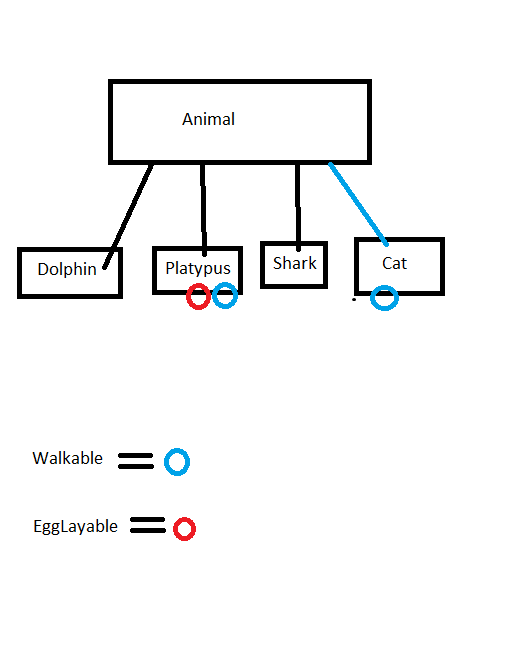
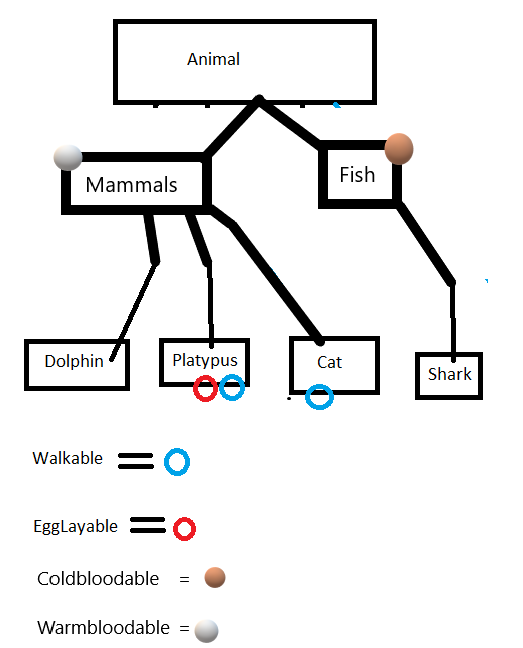
updated animal

diff --git a/src/com/qa/main/Runner.java b/src/com/qa/main/Runner.java
@@ -4,9 +4,17 @@ public class Runner {
 
 	public static void main(String[] args) {
 		
+		Mammals cat1 = new Cat();
 		
+		cat1.warmBlooded();
+		cat1.printTypeAndColour();
+		cat1.printAge();
 		
+		Fish shark1 = new Shark();
 		
+		shark1.coldBlooded();
+		shark1.printTypeAndColour();
+		shark1.printAge();
 		
 	}
 

diff --git a/src/com/qa/main/Mammals.java b/src/com/qa/main/Mammals.java
@@ -1,0 +1,16 @@
+package com.qa.main;
+
+public class Mammals extends Animal implements Warmbloodable {
+
+	@Override
+	public void warmBlooded() {
+		
+		System.out.println("I am warm Blooded!");
+		
+	}
+	
+	
+	
+	
+
+}

diff --git a/src/com/qa/main/Fish.java b/src/com/qa/main/Fish.java
@@ -1,0 +1,16 @@
+package com.qa.main;
+
+public class Fish extends Animal implements Coldbloodable {
+
+	@Override
+	public void coldBlooded() {
+		
+		System.out.println("I am cold blooded!");
+		
+	}
+	
+	
+	
+	
+
+}

diff --git a/src/com/qa/main/Platypus.java b/src/com/qa/main/Platypus.java
@@ -1,6 +1,6 @@
 package com.qa.main;
 
-public class Platypus extends Animal implements EggLayable, Walkable {
+public class Platypus extends Mammals implements EggLayable, Walkable {
 	
 String colour = "grey";
 	

diff --git a/src/com/qa/main/Cat.java b/src/com/qa/main/Cat.java
@@ -1,6 +1,6 @@
 package com.qa.main;
 
-public class Cat extends Animal implements Walkable {
+public class Cat extends Mammals implements Walkable {
 	
 	String colour = "brown";
 	

diff --git a/src/com/qa/main/Dolphin.java b/src/com/qa/main/Dolphin.java
@@ -1,6 +1,6 @@
 package com.qa.main;
 
-public class Dolphin extends Animal {
+public class Dolphin extends Mammals {
 	
 	String colour = "blue";
 	

diff --git a/src/com/qa/main/Shark.java b/src/com/qa/main/Shark.java
@@ -1,6 +1,6 @@
 package com.qa.main;
 
-public class Shark extends Animal {
+public class Shark extends Fish {
 	
 	
 String colour = "white";

diff --git a/src/com/qa/main/Coldbloodable.java b/src/com/qa/main/Coldbloodable.java
@@ -1,0 +1,7 @@
+package com.qa.main;
+
+public interface Coldbloodable {
+	
+	public void coldBlooded();
+
+}

diff --git a/src/com/qa/main/Warmbloodable.java b/src/com/qa/main/Warmbloodable.java
@@ -1,0 +1,7 @@
+package com.qa.main;
+
+public interface Warmbloodable {
+	
+	public void warmBlooded();
+
+}

diff --git a/src/com/qa/main/Animal.java b/src/com/qa/main/Animal.java
@@ -27,7 +27,7 @@ public String toString() {
 }
 	
 	
-
+	
 	
 
 }
